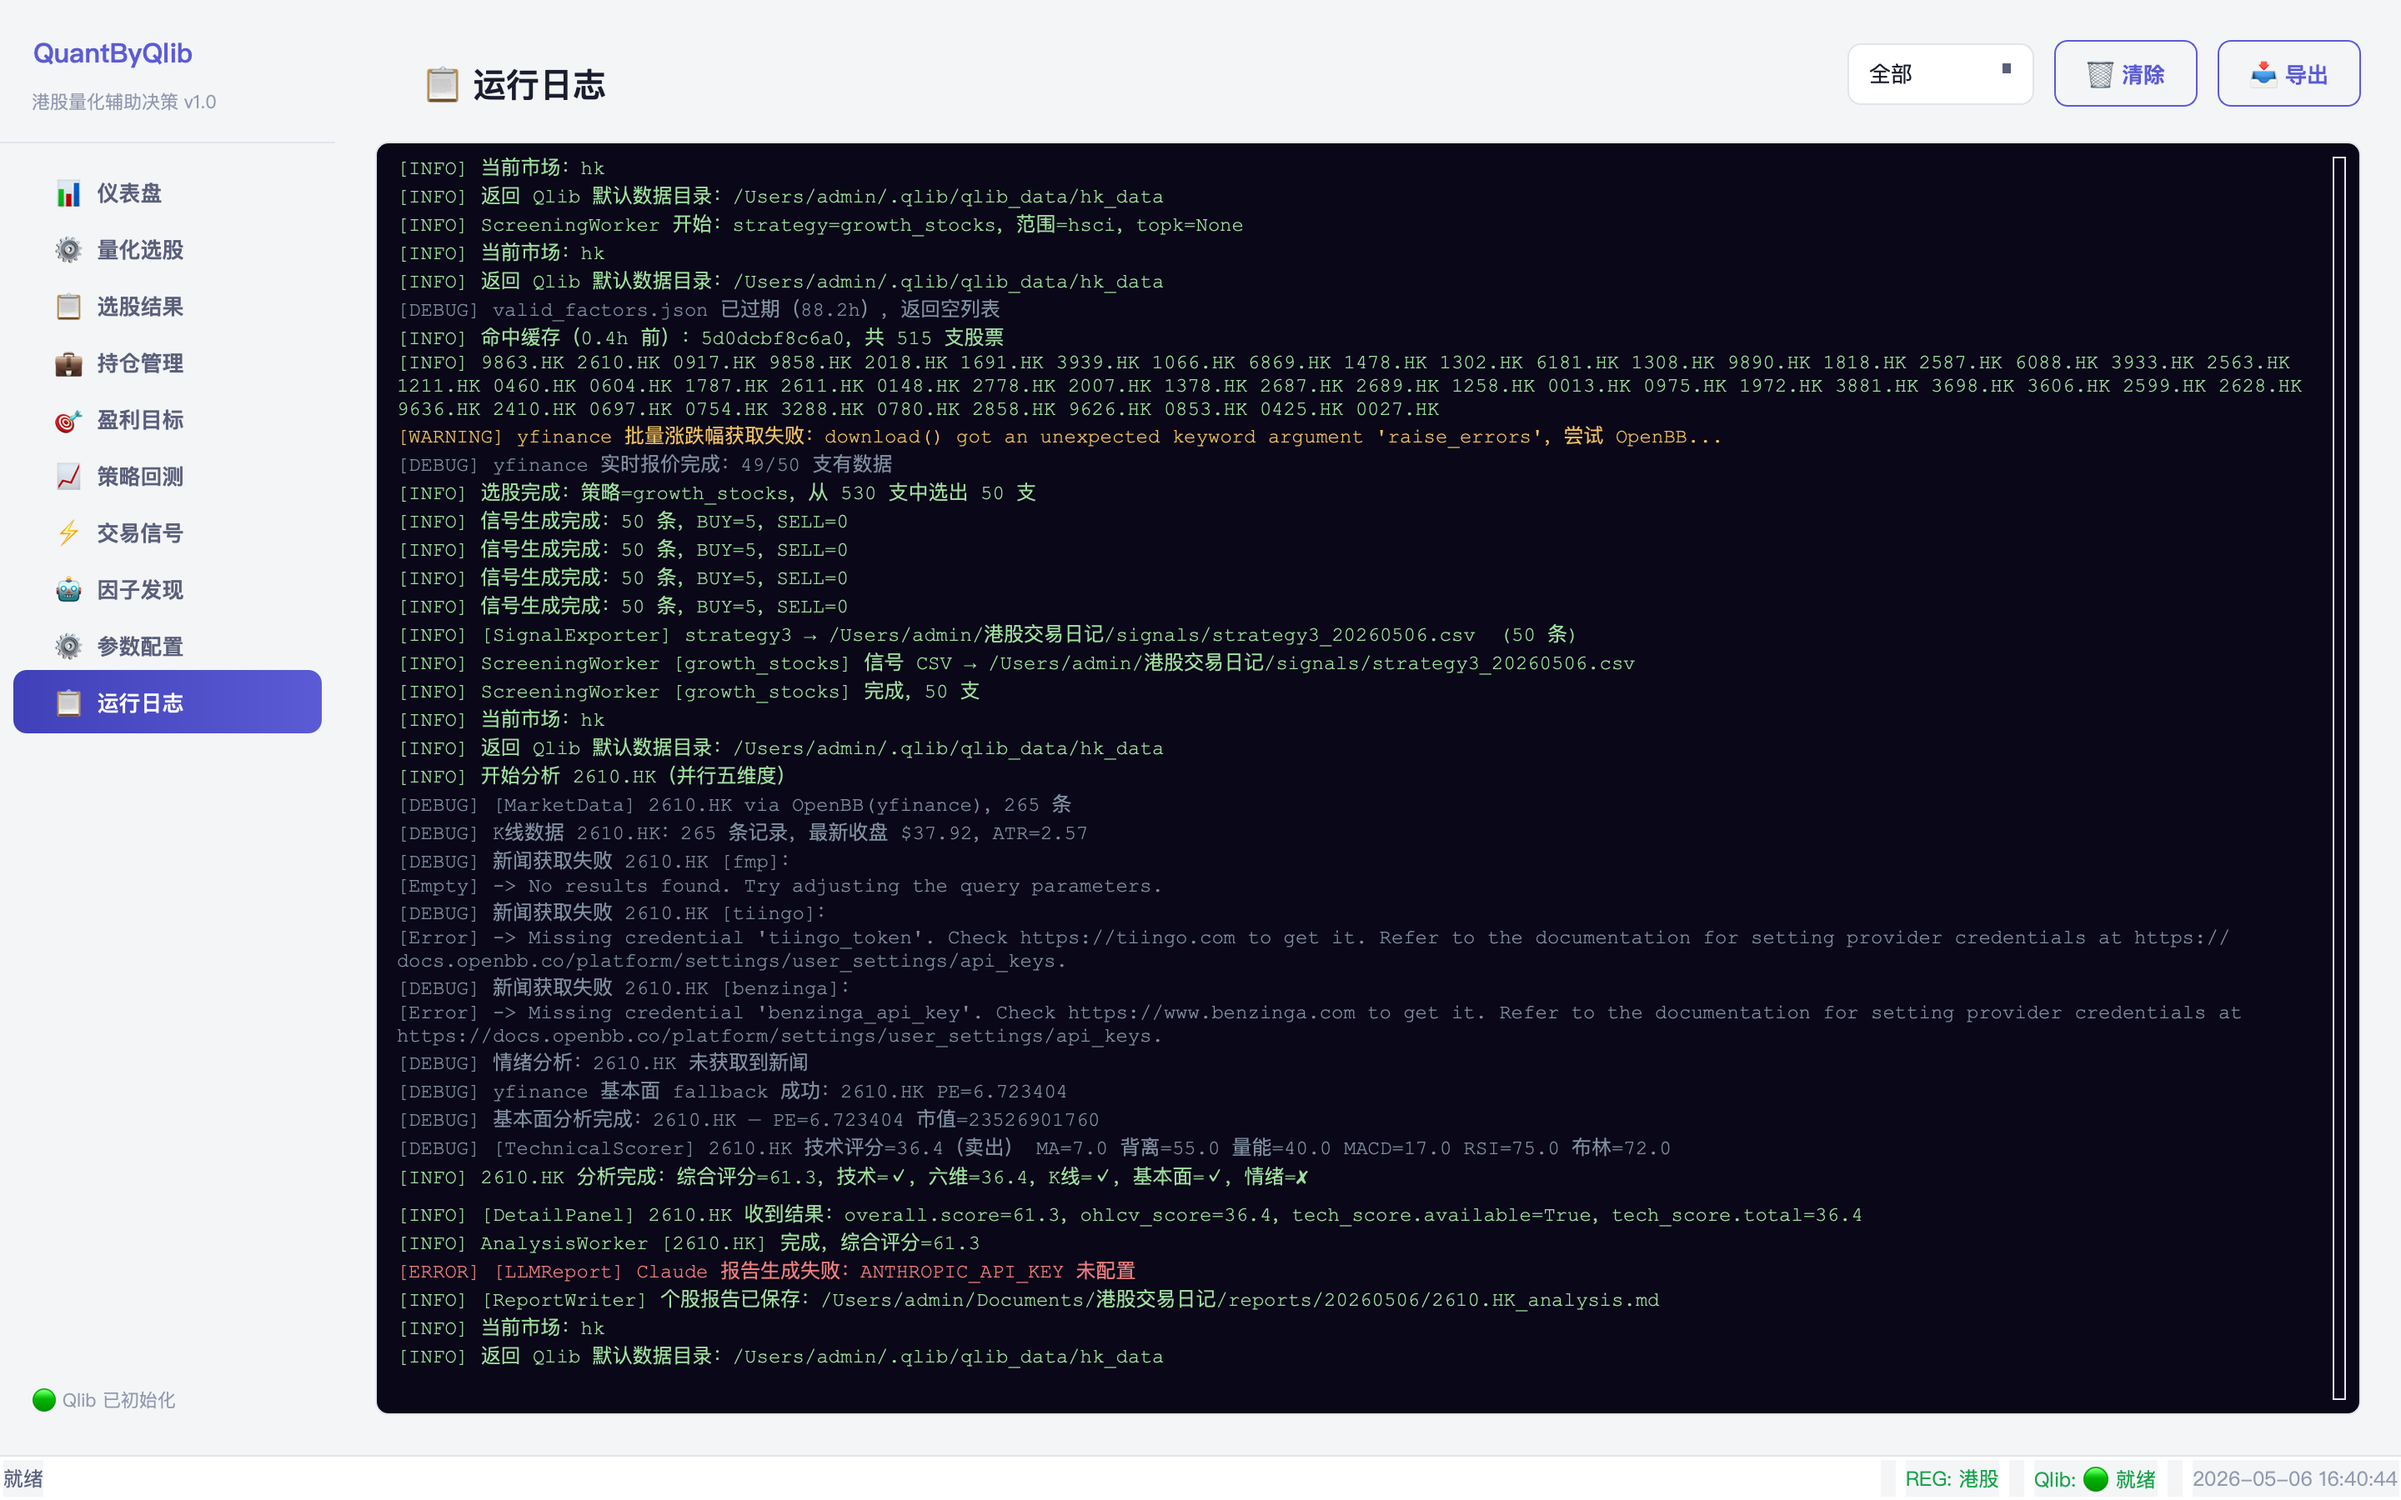
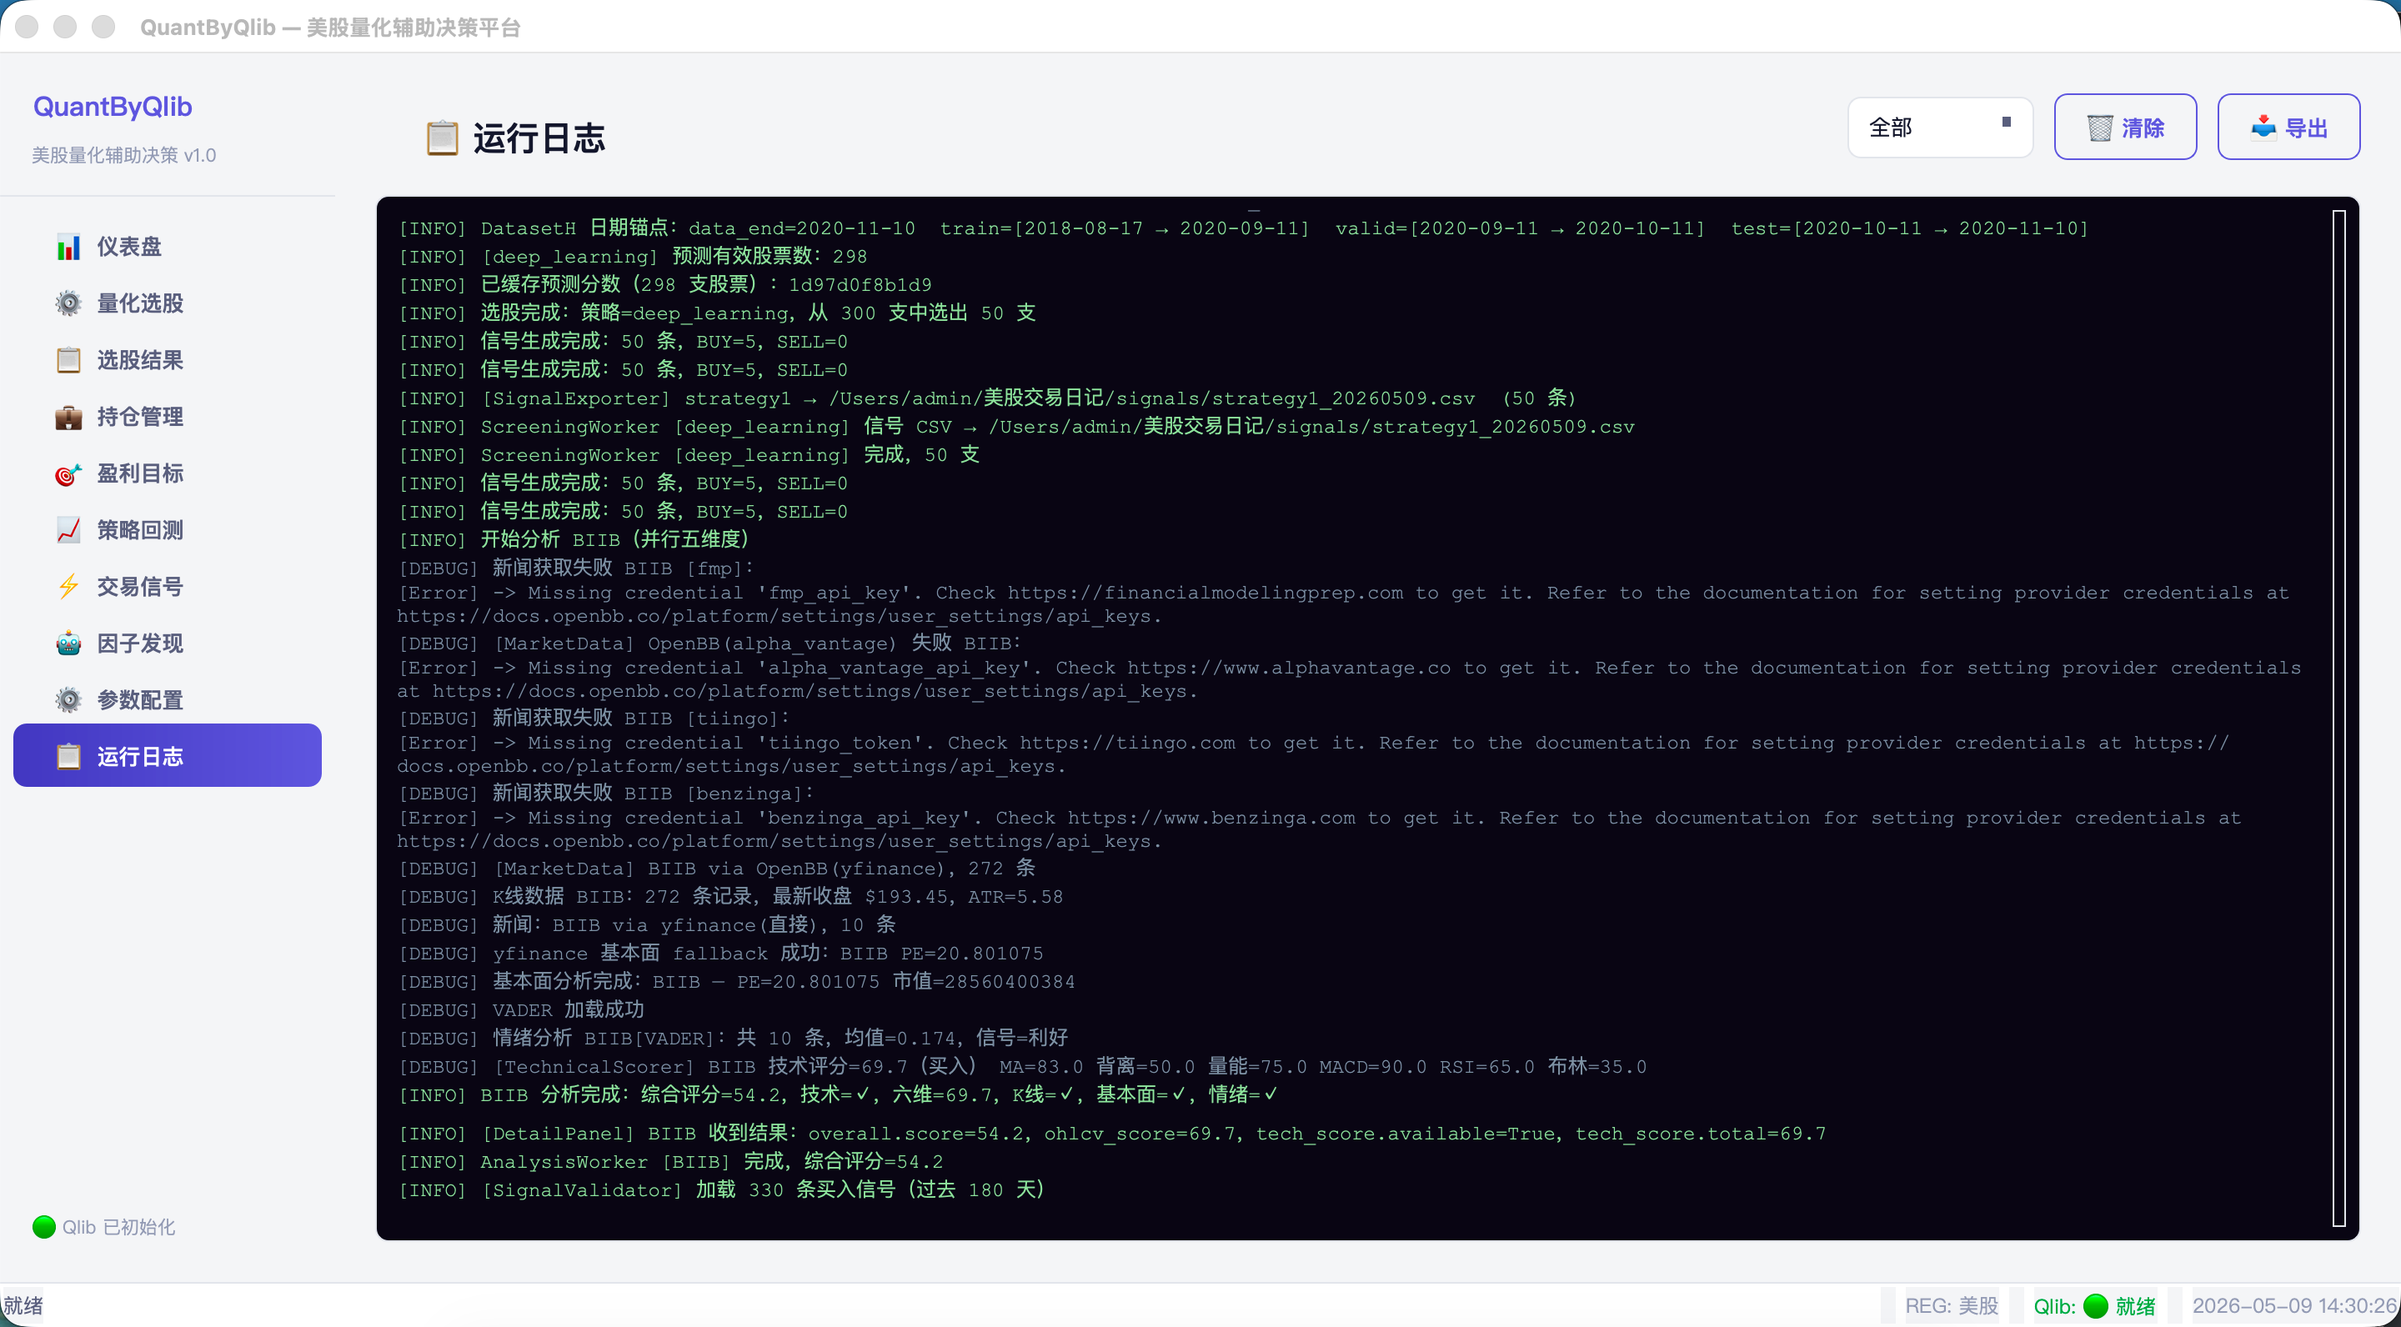
支持多市场切换，已实现：美股、A股、港股；用户自定义选股范围；支持列表：台股、日股、韩股、Crypto 已实现：美股、A股、港股数据采集，训练，回测；文档更新

diff --git a/backtesting/backtest_engine.py b/backtesting/backtest_engine.py
@@ -17,6 +17,8 @@ from backtesting.performance_metrics import (
     BacktestMetrics, calc_metrics_from_returns
 )
 
+from core.model_helper import get_model
+
 
 @dataclass
 class BacktestConfig:
@@ -80,7 +82,7 @@ class BacktestEngine:
             )
             from screening.stock_screener import StockScreener
 
-            # 核心蓝筹宇宙
+            # 核心蓝筹股票池
             screener = StockScreener()
             universe = screener._from_qlib() or screener._sp500_fallback()
             universe = [t for t in universe if isinstance(t, str) and t.strip()]
@@ -103,6 +105,9 @@ class BacktestEngine:
             # 通过临时调用 run() 的方式太重，直接按策略 key 定义对应的 factory
             def model_factory():
                 key = config.strategy_key
+                return get_model(key)
+                
+                # 废弃：直接在 main.py 定义 MODEL_REGISTRY 和 get_model()，避免重复代码和潜在不一致
                 if key == "growth_stocks":
                     from qlib.contrib.model.gbdt import LGBModel
                     return LGBModel(
@@ -253,7 +258,7 @@ class BacktestEngine:
 
         from screening.stock_screener import StockScreener
         screener = StockScreener()
-        universe = screener._sp500_fallback()   # ~100 支大盘股宇宙
+        universe = screener._sp500_fallback()   # ~100 支大盘股股票池
 
         # ── 1. 选股阶段：用回测开始日前 6 个月数据打分 ──────────
         score_end   = config.start_date
@@ -263,9 +268,9 @@ class BacktestEngine:
         score_prices = self._fetch_prices_batch(universe, score_start, score_end)
 
         if score_prices is None or score_prices.empty:
-            # 选股窗口无数据时退化为全宇宙等权
+            # 选股窗口无数据时退化为全股票池等权
             selected = universe[:config.topk]
-            logger.warning("选股窗口数据不足，使用全宇宙等权")
+            logger.warning("选股窗口数据不足，使用全股票池等权")
         else:
             selected = self._select_by_strategy(
                 score_prices, config.strategy_key, config.topk
@@ -426,9 +431,9 @@ class BacktestEngine:
         try:
             import yfinance as yf
             # yfinance 一次下载所有 ticker，速度远快于逐一下载
-            tickers_str = " ".join(tickers)
+            # tickers_str = " ".join(tickers)
             df_all = yf.download(
-                tickers_str,
+                tickers,
                 start=start,
                 end=end,
                 progress=False,

diff --git a/core/model_helper.py b/core/model_helper.py
@@ -1,0 +1,97 @@
+import multiprocessing as mp
+mp.set_start_method("spawn", force=True)
+import os
+os.environ["JOBLIB_MULTIPROCESSING"] = "0"
+
+import joblib
+import os
+
+joblib.parallel_backend("threading", n_jobs=1)
+
+os.environ["OMP_NUM_THREADS"] = "1"
+os.environ["OPENBLAS_NUM_THREADS"] = "1"
+os.environ["MKL_NUM_THREADS"] = "1"
+os.environ["JOBLIB_MULTIPROCESSING"] = "0"
+
+#import mlflow
+#mlflow.set_tracking_uri("duckdb:////mlflow.duckdb")
+
+# ✅ 提前 import，避免 fork 后再 import
+from qlib.contrib.model.gbdt import LGBModel
+from qlib.contrib.model.pytorch_lstm import LSTM
+from qlib.contrib.model.pytorch_gru import GRU
+
+MODEL_REGISTRY = {
+    "growth_stocks": lambda: LGBModel(
+        loss="mse",
+        colsample_bytree=0.8879,
+        learning_rate=0.0421,
+        subsample=0.8789,
+        lambda_l1=205.6999,
+        lambda_l2=580.9768,
+        max_depth=8,
+        num_leaves=210,
+        num_threads=1,
+        force_col_wise=True,
+    ),
+    "market_adaptive_bull": lambda: LGBModel(
+        learning_rate=0.05,
+        num_leaves=128,
+        num_threads=1,
+        force_col_wise=True,
+    ),
+    "market_adaptive_bear": lambda: LGBModel(
+        learning_rate=0.03,
+        num_leaves=128,
+        num_threads=1,
+        force_col_wise=True,
+    ),
+    "market_adaptive": lambda: LGBModel(
+        learning_rate=0.03,
+        num_leaves=128,
+        num_threads=1,
+        force_col_wise=True,
+    ),
+    "deep_learning": lambda: LSTM(
+        d_feat=158,
+        hidden_size=64,
+        num_layers=2,
+        dropout=0.0,
+        n_epochs=10,
+        lr=1e-3,
+        early_stop=10,
+        batch_size=256,
+        metric="",
+        GPU=-1,
+    ),
+    "intraday_profit": lambda: GRU(
+        d_feat=158,
+        hidden_size=64,
+        num_layers=2,
+        dropout=0.0,
+        n_epochs=10,
+        lr=1e-3,
+        early_stop=10,
+        batch_size=256,
+        metric="",
+        GPU=-1,
+    ),
+    "pytorch_full_market": lambda: LSTM(
+        d_feat=360,
+        hidden_size=128,
+        num_layers=2,
+        dropout=0.1,
+        n_epochs=8,
+        lr=5e-4,
+        early_stop=8,
+        batch_size=256,
+        metric="",
+        GPU=-1,
+    ),
+}
+
+def get_model(key: str):
+    factory = MODEL_REGISTRY.get(key)
+    if factory is None:
+        factory = lambda: LGBModel(num_leaves=64, num_threads=1)
+    return factory()

diff --git a/readme.md b/readme.md
@@ -271,6 +271,14 @@ graph TD
 
 ---
 
+## 量化选股 - 策略回测
+
+![backtest](images/backtest.png)
+
+![backtest](images/backtest2.png)
+
+---
+
 ## 量化选股 - 配置下载数据
 
 ![config download](images/config_download.png)
